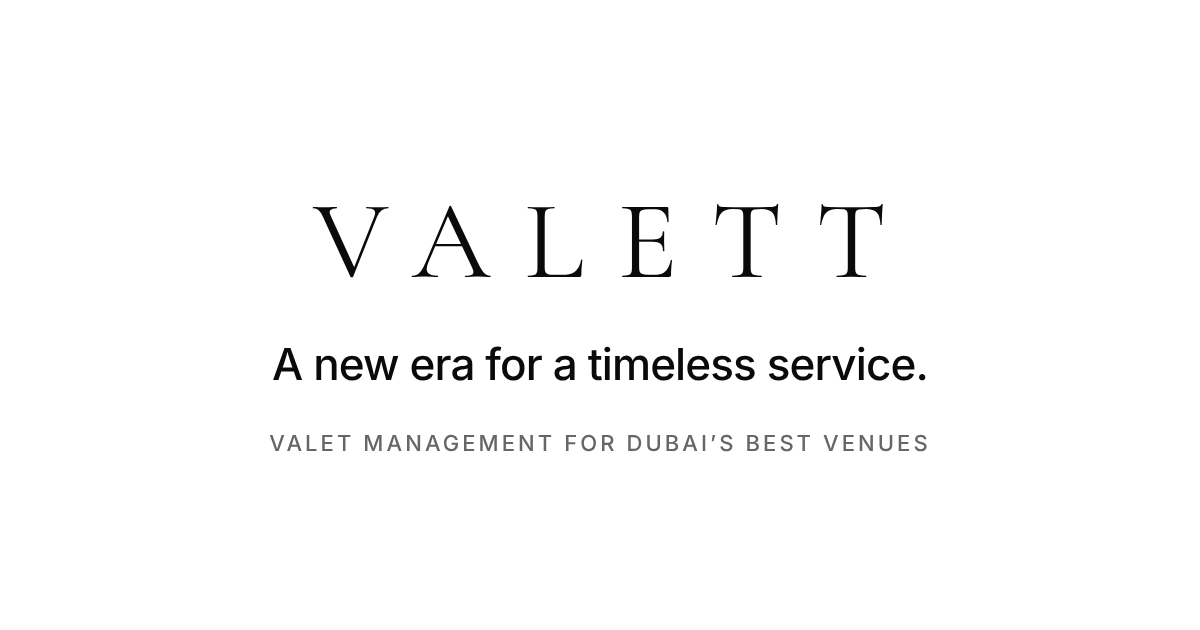
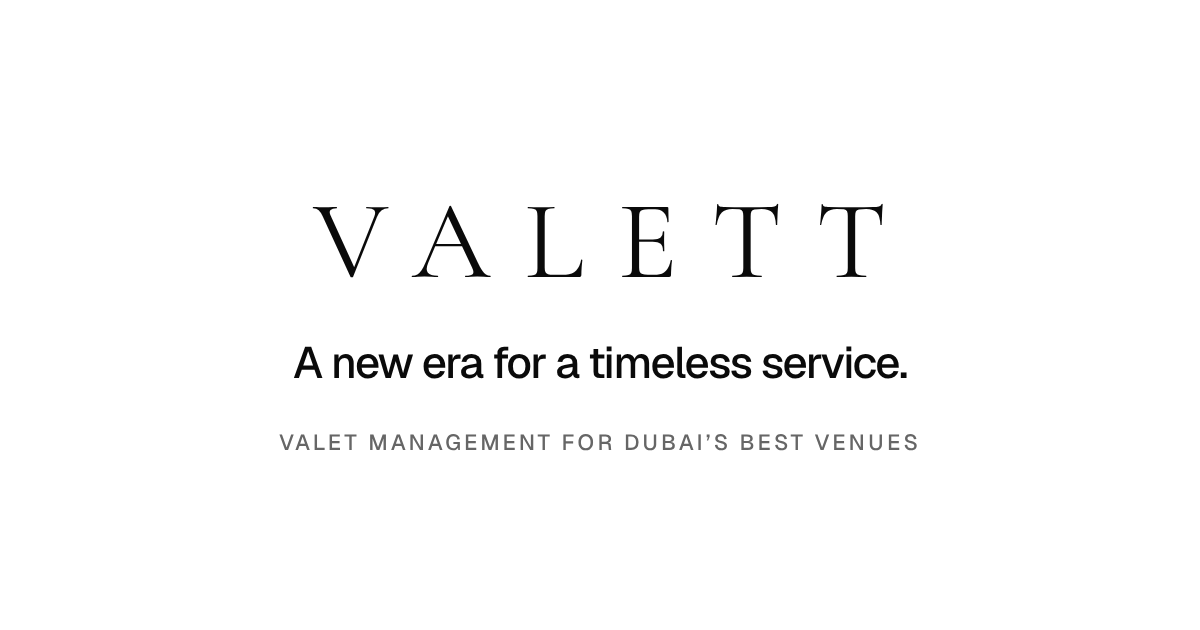
Geist type, interactive hero sample with floating glass cards, more air
- Swap Inter for Geist Variable; display and H2 weights to 600, tighter tracking
- Hero right column is the live GuestPhone with autoplay (stops on tap) and
  three floating matte-glass cards; mobile gets the same, scaled
- GuestPhone: autoplay prop with visibility pause; in-phone titles are no
  longer headings (fixes heading order)
- Section padding 112/200 px; glass-card utility; interaction test covers autoplay

Claude-Session: https://claude.ai/code/session_01XUjYYSdYvLLVrdSuyXtLUf

Changed region(s): [[0.2158, 0.5429, 0.7708, 0.6032], [0.2158, 0.6635, 0.7708, 0.7238]]

diff --git a/src/styles/global.css b/src/styles/global.css
@@ -1,5 +1,5 @@
 @import "tailwindcss";
-@import "@fontsource-variable/inter";
+@import "@fontsource-variable/geist";
 @import "@fontsource/cormorant-garamond/400.css";
 
 /* ------------------------------------------------------------------ */
@@ -25,7 +25,7 @@
   --color-ink-text-2: rgba(255, 255, 255, 0.62);
   --color-ink-text-3: rgba(255, 255, 255, 0.56);
 
-  --font-sans: "Inter Variable", "Inter", ui-sans-serif, system-ui, -apple-system, "Segoe UI", Roboto, sans-serif;
+  --font-sans: "Geist Variable", "Geist", -apple-system, BlinkMacSystemFont, "SF Pro Display", "Helvetica Neue", ui-sans-serif, system-ui, sans-serif;
   --font-serif: "Cormorant Garamond", "Cormorant", Georgia, "Times New Roman", serif;
 
   --radius-card: 12px;
@@ -68,7 +68,7 @@
     font-family: var(--font-sans);
     font-size: 17px;
     line-height: 1.6;
-    font-feature-settings: "cv11", "ss01";
+    font-feature-settings: "ss01", "cv01";
   }
   @media (min-width: 48rem) {
     body { font-size: 18px; }
@@ -87,27 +87,27 @@
 /* Type scale                                                          */
 /* ------------------------------------------------------------------ */
 @utility t-display {
-  font-weight: 500;
-  font-size: 48px;
+  font-weight: 600;
+  font-size: 44px;
   line-height: 1.02;
-  letter-spacing: -0.03em;
+  letter-spacing: -0.04em;
   text-wrap: balance;
   @media (min-width: 48rem) { font-size: 72px; }
   @media (min-width: 64rem) { font-size: 96px; }
 }
 @utility t-h2 {
-  font-weight: 500;
-  font-size: 36px;
-  line-height: 1.08;
-  letter-spacing: -0.02em;
+  font-weight: 600;
+  font-size: 34px;
+  line-height: 1.06;
+  letter-spacing: -0.035em;
   text-wrap: balance;
   @media (min-width: 48rem) { font-size: 56px; }
 }
 @utility t-h3 {
-  font-weight: 500;
+  font-weight: 600;
   font-size: 20px;
   line-height: 1.25;
-  letter-spacing: -0.01em;
+  letter-spacing: -0.02em;
   @media (min-width: 48rem) { font-size: 24px; }
 }
 @utility t-body {
@@ -157,6 +157,15 @@
 @utility hairline {
   border: 1px solid var(--color-line);
 }
+/* Matte glass card: glass recipe + softer radius, used for floating UI and tiles */
+@utility glass-card {
+  background: rgba(255, 255, 255, 0.72);
+  -webkit-backdrop-filter: blur(20px) saturate(1.2);
+  backdrop-filter: blur(20px) saturate(1.2);
+  border: 1px solid var(--color-line);
+  box-shadow: 0 1px 2px rgba(0, 0, 0, 0.04), 0 24px 48px -32px rgba(0, 0, 0, 0.18);
+  border-radius: 16px;
+}
 @utility hairline-t {
   border-top: 1px solid var(--color-line);
 }
@@ -164,8 +173,8 @@
   border-bottom: 1px solid var(--color-line);
 }
 @utility section-pad {
-  padding-block: 96px;
-  @media (min-width: 48rem) { padding-block: 160px; }
+  padding-block: 112px;
+  @media (min-width: 48rem) { padding-block: 200px; }
 }
 @utility container-page {
   width: 100%;
@@ -288,6 +297,10 @@
 @keyframes v-scanline {
   0% { transform: translateY(0); }
   100% { transform: translateY(100%); }
+}
+@keyframes v-float-in {
+  from { opacity: 0; transform: translateY(14px) scale(.98); }
+  to { opacity: 1; transform: none; }
 }
 @keyframes v-pulse {
   0%, 100% { opacity: 1; }

diff --git a/docs/PENDING.md b/docs/PENDING.md
@@ -27,7 +27,9 @@ Items the site needs before launch, in the order they block work. Each has a pla
 
 - Logo stays the serif VALETT wordmark (Leon's call after seeing both). `Wordmark.astro` keeps a `variant="brand"` that renders the brand-file "Valett." if ever needed.
 - Slogan "A new era for a timeless service." sits under the logo in the hero and replaces "Valet, without the wait." in the title, OG image and footer line. The old line is one edit in `src/data/site.ts` if wanted back.
-- Hero is left-aligned: small wordmark, slogan as the headline, sub-line, CTAs; the right column shows the real guest page over the staff request screen (`HeroScreens.astro`). When `site.film.mp4` is set, the film frame takes that place automatically and the hero re-centres.
+- Type is Geist (variable) instead of Inter, heavier and tighter at display sizes; the serif wordmark is unchanged.
+- Hero is left-aligned: small wordmark, slogan as the headline, sub-line, CTAs; the right column is the live guest sample cycling through its five states until tapped, with floating matte-glass cards (`HeroScreens.astro`). When `site.film.mp4` is set, the film frame takes that place automatically and the hero re-centres.
+- Section padding raised to 112/200 px for more air.
 - Poster placeholder (used in §2 until the film exists) is the film's end card: black with the white serif wordmark and the slogan.
 
 ## Copy added outside the brief
